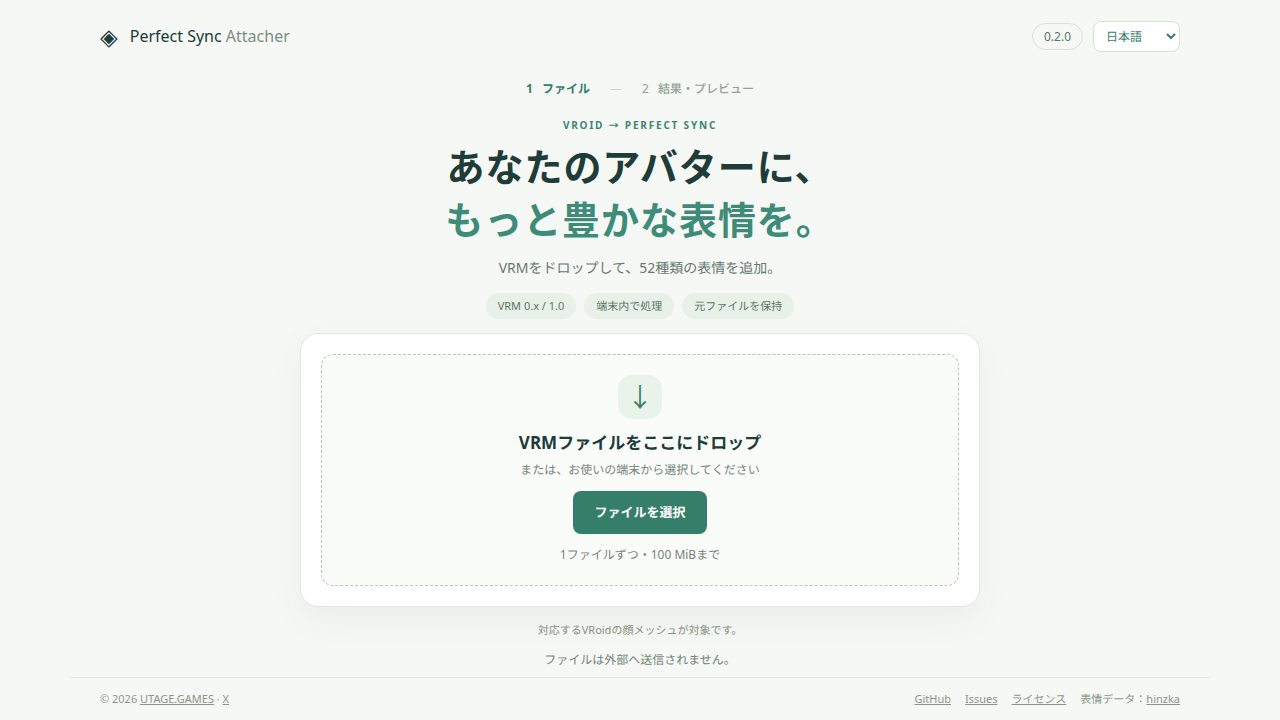
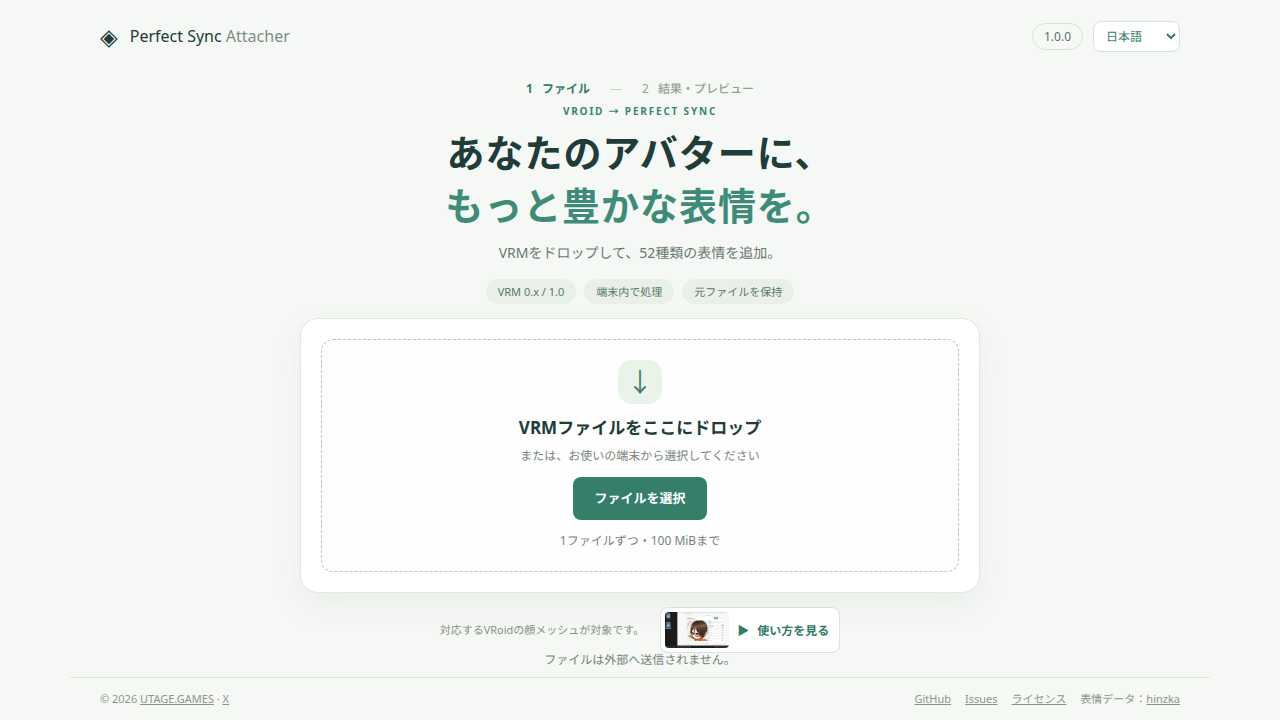
release: finalize version 1.0.0

diff --git a/docs/introduction-video.md b/docs/introduction-video.md
@@ -1,6 +1,6 @@
 # 紹介動画
 
-0.4.0開発版で、D&D待機画面にサムネイル付き「使い方を見る」ボタンを追加します。ユーザー提供の告知動画を音声付きで再生します。
+正式版1.0.0で、D&D待機画面にサムネイル付き「使い方を見る」ボタンを追加。ユーザー提供の告知動画を音声付きで再生します。
 
 - クリックでモーダルを開き、再生を開始。ブラウザーが開始を拒否した場合は再生ボタンの案内を表示します。
 - 動画のsrcはクリック時に設定し、初期表示では動画本体を取得しません。

diff --git a/docs/versioning-and-release.md b/docs/versioning-and-release.md
@@ -51,3 +51,7 @@
 ## 0.3.0のリリース記録
 
 ユーザーが限界突破プレビューとUI調整を了承し、PR作成を依頼。`0.3.0-dev.11`から開発版接尾辞を削除し、`develop/extended-preview`をpushしてmaster向けPRを作成する。マージは別途指示に従い、マージコミットを残す。
+
+## 1.0.0の正式リリース記録
+
+ユーザーの明示指定により、紹介動画追加の`0.4.0-dev.2`を正式版`1.0.0`として確定する。関連文書を更新し、`develop/introduction-video`のpush、master向けPR作成、マージコミット方式でのマージまで実施する。

diff --git a/README.md b/README.md
@@ -4,7 +4,7 @@
 
 VRoid Studio製の対応VRMに、Perfect Sync用の52表情を追加するウェブアプリです。Unityの起動は不要。VRMをドラッグ＆ドロップし、表情を確認して保存できます。
 
-リリース版は`0.3.0`です。[公開アプリ](https://perfectsync.utage.games/)はCloudflare Pagesで配信しています。
+リリース版は`1.0.0`です。[公開アプリ](https://perfectsync.utage.games/)はCloudflare Pagesで配信しています。
 
 ![日本語の待機画面](docs/images/waiting-ja.png)
 

diff --git a/README.en.md b/README.en.md
@@ -4,7 +4,7 @@
 
 A web app that adds 52 Perfect Sync expressions to compatible VRoid Studio VRM models. No Unity setup is required: drop a VRM, check the expressions, and save the converted file.
 
-Release version: `0.3.0`. The [public app](https://perfectsync.utage.games/) is hosted on Cloudflare Pages.
+Release version: `1.0.0`. The [public app](https://perfectsync.utage.games/) is hosted on Cloudflare Pages.
 
 ![English waiting screen](docs/images/waiting-en.png)
 

diff --git a/docs/prototype-guide.md b/docs/prototype-guide.md
@@ -1,6 +1,6 @@
 # プロトタイプ確認ガイド
 
-確認対象の開発版：`0.4.0-dev.2`。作業ブランチ：`develop/introduction-video`。公開済みリリースは`0.3.0`。
+確認対象の正式リリース版：`1.0.0`。紹介動画を含めた構成で正式版として確定。
 
 待機画面の「使い方を見る」から音声付き紹介動画をモーダルで再生できる。詳細は[紹介動画](introduction-video.md)を参照。
 
